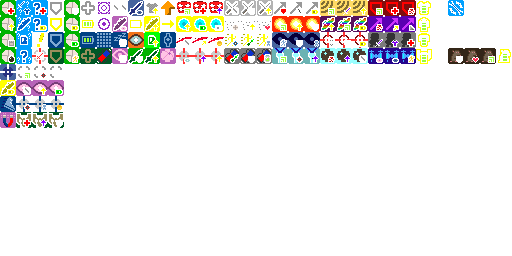
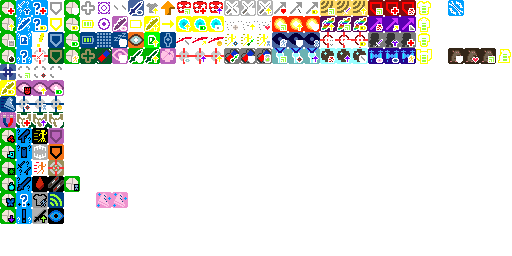
v0.0.2.4 Major bug fix/Mage new class: Oracle

Changed region(s): [[0.0, 0.5, 0.1562, 0.875], [0.1875, 0.75, 0.25, 0.8125], [0.0312, 0.3438, 0.0625, 0.375]]

diff --git a/core/src/main/java/com/shatteredpixel/shatteredpixeldungeon/actors/mobs/Mob.java b/core/src/main/java/com/shatteredpixel/shatteredpixeldungeon/actors/mobs/Mob.java
@@ -21,6 +21,8 @@
 
 package com.shatteredpixel.shatteredpixeldungeon.actors.mobs;
 
+import static com.shatteredpixel.shatteredpixeldungeon.Dungeon.hero;
+
 import com.shatteredpixel.shatteredpixeldungeon.Assets;
 import com.shatteredpixel.shatteredpixeldungeon.Badges;
 import com.shatteredpixel.shatteredpixeldungeon.Challenges;
@@ -53,7 +55,6 @@ import com.shatteredpixel.shatteredpixeldungeon.effects.Surprise;
 import com.shatteredpixel.shatteredpixeldungeon.effects.Wound;
 import com.shatteredpixel.shatteredpixeldungeon.effects.particles.ShadowParticle;
 import com.shatteredpixel.shatteredpixeldungeon.items.Generator;
-import com.shatteredpixel.shatteredpixeldungeon.items.Gold;
 import com.shatteredpixel.shatteredpixeldungeon.items.Item;
 import com.shatteredpixel.shatteredpixeldungeon.items.artifacts.MasterThievesArmband;
 import com.shatteredpixel.shatteredpixeldungeon.items.artifacts.TimekeepersHourglass;
@@ -62,6 +63,7 @@ import com.shatteredpixel.shatteredpixeldungeon.items.rings.RingOfWealth;
 import com.shatteredpixel.shatteredpixeldungeon.items.stones.StoneOfAggression;
 import com.shatteredpixel.shatteredpixeldungeon.items.weapon.SpiritBow;
 import com.shatteredpixel.shatteredpixeldungeon.items.weapon.enchantments.Lucky;
+import com.shatteredpixel.shatteredpixeldungeon.items.weapon.melee.MagesStaff;
 import com.shatteredpixel.shatteredpixeldungeon.items.weapon.missiles.MissileWeapon;
 import com.shatteredpixel.shatteredpixeldungeon.items.weapon.missiles.darts.Dart;
 import com.shatteredpixel.shatteredpixeldungeon.levels.Level;
@@ -688,6 +690,10 @@ public abstract class Mob extends Char {
 		if (state != HUNTING && !(src instanceof Corruption)) {
 			alerted = true;
 		}
+		if (Dungeon.hero.hasTalent(Talent.ENTROPHY_INJECTION) && buff(Talent.EntrophyMark.class) != null && Random.Int(15) < Dungeon.hero.pointsInTalent(Talent.ENTROPHY_INJECTION)) {
+			dmg = (int) (((float) dmg) * (1f + 0.15f * hero.pointsInTalent(Talent.ENTROPHY_INJECTION)));
+			this.sprite.showStatus(CharSprite.NEGATIVE, Messages.get(Talent.EntrophyMark.class, "cri", new Object[0]), new Object[0]);
+		}
 		
 		super.damage( dmg, src );
 	}
@@ -725,6 +731,7 @@ public abstract class Mob extends Char {
 	
 	@Override
 	public void die( Object cause ) {
+		MagesStaff magesStaff;
 
 		if (cause == Chasm.class){
 			//50% chance to round up, 50% to round down
@@ -747,6 +754,10 @@ public abstract class Mob extends Char {
 		}
 
 		boolean soulMarked = buff(SoulMark.class) != null;
+
+		if (Dungeon.hero.hasTalent(Talent.TIME_CONSUME) && (magesStaff = (MagesStaff) Dungeon.hero.belongings.getItem(MagesStaff.class)) != null) {
+			magesStaff.gainCharge(((float) Dungeon.hero.pointsInTalent(Talent.TIME_CONSUME)) * 0.06f);
+		}
 
 		super.die( cause );
 

diff --git a/core/src/main/java/com/shatteredpixel/shatteredpixeldungeon/items/wands/WandOfBlastWave.java b/core/src/main/java/com/shatteredpixel/shatteredpixeldungeon/items/wands/WandOfBlastWave.java
@@ -27,8 +27,6 @@ import com.shatteredpixel.shatteredpixeldungeon.Dungeon;
 import com.shatteredpixel.shatteredpixeldungeon.actors.Actor;
 import com.shatteredpixel.shatteredpixeldungeon.actors.Char;
 import com.shatteredpixel.shatteredpixeldungeon.actors.buffs.Paralysis;
-import com.shatteredpixel.shatteredpixeldungeon.actors.hero.Hero;
-import com.shatteredpixel.shatteredpixeldungeon.actors.hero.Talent;
 import com.shatteredpixel.shatteredpixeldungeon.effects.Effects;
 import com.shatteredpixel.shatteredpixeldungeon.effects.MagicMissile;
 import com.shatteredpixel.shatteredpixeldungeon.effects.Pushing;
@@ -84,6 +82,7 @@ public class WandOfBlastWave extends DamageWand {
 			Char ch = Actor.findChar(bolt.collisionPos + i);
 
 			if (ch != null){
+				processEntrophy(ch, chargesPerCast());
 				wandProc(ch, chargesPerCast());
 				if (ch.alignment != Char.Alignment.ALLY) ch.damage(damageRoll(), this);
 
@@ -93,6 +92,14 @@ public class WandOfBlastWave extends DamageWand {
 					throwChar(ch, trajectory, strength, false, true, getClass());
 				}
 
+			}
+		}
+		Char findChar2 = Actor.findChar(bolt.collisionPos.intValue());
+		if (findChar2 != null) {
+			processEntrophy(findChar2, chargesPerCast());
+			findChar2.damage(damageRoll(), this);
+			if (findChar2.isAlive() && bolt.path.size() > bolt.dist.intValue() + 1 && findChar2.pos == bolt.collisionPos.intValue()) {
+				throwChar(findChar2, new Ballistica(findChar2.pos, bolt.path.get(bolt.dist.intValue() + 1).intValue(), 6), buffedLvl() + 3, false);
 			}
 		}
 
@@ -109,6 +116,14 @@ public class WandOfBlastWave extends DamageWand {
 			}
 		}
 		
+	}
+
+	public static void throwChar(Char charR, Ballistica ballistica, int i) {
+		throwChar(charR, ballistica, i, true);
+	}
+
+	public static void throwChar(Char charR, Ballistica ballistica, int i, boolean z) {
+		throwChar(charR, ballistica, i, true);
 	}
 
 	public static void throwChar(final Char ch, final Ballistica trajectory, int power,

diff --git a/core/src/main/java/com/shatteredpixel/shatteredpixeldungeon/actors/hero/Talent.java b/core/src/main/java/com/shatteredpixel/shatteredpixeldungeon/actors/hero/Talent.java
@@ -106,6 +106,8 @@ public enum Talent {
 	EMPOWERED_STRIKE(43, 3), MYSTICAL_CHARGE(44, 3), EXCESS_CHARGE(45, 3),
 	//Warlock T3
 	SOUL_EATER(46, 3), SOUL_SIPHON(47, 3), NECROMANCERS_MINIONS(48, 3),
+	//Oracle T3
+	SELF_PROPHECY(161, 3), ENTROPHY_INJECTION(162, 3), TIME_CONSUME(163, 3),
 	//Elemental Blast T4
 	BLAST_RADIUS(49, 4), ELEMENTAL_POWER(50, 4), REACTIVE_BARRIER(51, 4),
 	//Wild Magic T4
@@ -213,6 +215,31 @@ public enum Talent {
 		public float iconFadePercent() { return Math.max(0, visualcooldown() / 20); }
 	};
 	public static class SpiritBladesTracker extends FlavourBuff{};
+	public static class ProphecyCoolDown extends FlavourBuff{
+		public int icon() { return BuffIndicator.TIME; }
+		public void tintIcon(Image icon) { icon.hardlight(1f, 2f, 0.25f); }
+		public float iconFadePercent() { return Math.max(0, visualcooldown() / 15); }
+		public String toString() { return Messages.get(this, "name"); }
+		public String desc() { return Messages.get(this, "desc", dispTurns(visualcooldown())); }
+	};
+	public static class EntrophyMark extends FlavourBuff {
+		public int icon() {
+			return BuffIndicator.CORRUPT;
+		}
+
+		public EntrophyMark() {
+			this.type = Buff.buffType.NEGATIVE;
+			this.announced = true;
+		}
+
+		public String toString() {
+			return Messages.get((Object) this, "name", new Object[0]);
+		}
+
+		public String desc() {
+			return Messages.get((Object) this, "desc", dispTurns());
+		}
+	}
 
 	int icon;
 	int maxPoints;
@@ -654,6 +681,9 @@ public enum Talent {
 				break;
 			case WARLOCK:
 				Collections.addAll(tierTalents, SOUL_EATER, SOUL_SIPHON, NECROMANCERS_MINIONS);
+				break;
+			case ORACLE:
+				Collections.addAll(tierTalents, SELF_PROPHECY, ENTROPHY_INJECTION, TIME_CONSUME);
 				break;
 			case ASSASSIN:
 				Collections.addAll(tierTalents, ENHANCED_LETHALITY, ASSASSINS_REACH, BOUNTY_HUNTER);

diff --git a/core/src/main/java/com/shatteredpixel/shatteredpixeldungeon/items/wands/WandOfLivingEarth.java b/core/src/main/java/com/shatteredpixel/shatteredpixeldungeon/items/wands/WandOfLivingEarth.java
@@ -29,7 +29,6 @@ import com.shatteredpixel.shatteredpixeldungeon.actors.Char;
 import com.shatteredpixel.shatteredpixeldungeon.actors.buffs.AllyBuff;
 import com.shatteredpixel.shatteredpixeldungeon.actors.buffs.Amok;
 import com.shatteredpixel.shatteredpixeldungeon.actors.buffs.Buff;
-import com.shatteredpixel.shatteredpixeldungeon.actors.buffs.Corruption;
 import com.shatteredpixel.shatteredpixeldungeon.actors.hero.Hero;
 import com.shatteredpixel.shatteredpixeldungeon.actors.mobs.Mob;
 import com.shatteredpixel.shatteredpixeldungeon.actors.mobs.npcs.NPC;
@@ -96,6 +95,7 @@ public class WandOfLivingEarth extends DamageWand {
 			guardian.sprite.centerEmitter().burst(MagicMissile.EarthParticle.ATTRACT, 8 + buffedLvl() / 2);
 			guardian.setInfo(curUser, buffedLvl(), armorToAdd);
 			wandProc(guardian, chargesPerCast());
+			processEntrophy(guardian, chargesPerCast());
 			Sample.INSTANCE.play( Assets.Sounds.HIT_MAGIC, 1, 0.9f * Random.Float(0.87f, 1.15f) );
 
 		//shooting the guardian at a location
@@ -113,6 +113,7 @@ public class WandOfLivingEarth extends DamageWand {
 
 				wandProc(ch, chargesPerCast());
 				ch.damage(damage, this);
+				processEntrophy(ch, chargesPerCast());
 
 				int closest = -1;
 				boolean[] passable = Dungeon.level.passable;
@@ -156,6 +157,7 @@ public class WandOfLivingEarth extends DamageWand {
 				ch.sprite.centerEmitter().burst(MagicMissile.EarthParticle.BURST, 5 + buffedLvl() / 2);
 
 				wandProc(ch, chargesPerCast());
+				processEntrophy(ch, chargesPerCast());
 				ch.damage(damage, this);
 				Sample.INSTANCE.play( Assets.Sounds.HIT_MAGIC, 1, 0.8f * Random.Float(0.87f, 1.15f) );
 				

diff --git a/core/src/main/java/com/shatteredpixel/shatteredpixeldungeon/items/weapon/melee/MagesStaff.java b/core/src/main/java/com/shatteredpixel/shatteredpixeldungeon/items/weapon/melee/MagesStaff.java
@@ -21,11 +21,12 @@
 
 package com.shatteredpixel.shatteredpixeldungeon.items.weapon.melee;
 
+import static com.shatteredpixel.shatteredpixeldungeon.Dungeon.hero;
+
 import com.shatteredpixel.shatteredpixeldungeon.Assets;
 import com.shatteredpixel.shatteredpixeldungeon.Badges;
 import com.shatteredpixel.shatteredpixeldungeon.Dungeon;
 import com.shatteredpixel.shatteredpixeldungeon.actors.Char;
-import com.shatteredpixel.shatteredpixeldungeon.actors.buffs.Barrier;
 import com.shatteredpixel.shatteredpixeldungeon.actors.buffs.Buff;
 import com.shatteredpixel.shatteredpixeldungeon.actors.hero.Hero;
 import com.shatteredpixel.shatteredpixeldungeon.actors.hero.HeroSubClass;
@@ -90,8 +91,14 @@ public class MagesStaff extends MeleeWeapon {
 
 	@Override
 	public int max(int lvl) {
-		return  Math.round(3f*(tier+1)) +   //6 base damage, down from 10
-				lvl*(tier+1);               //scaling unaffected
+		if (hero.hasTalent(Talent.SELF_PROPHECY) && hero.buff(Talent.ProphecyCoolDown.class) == null) {
+			return  Math.round(3f*(tier+1)) +   //6 base damage, down from 10
+					lvl*(tier+1) +
+					15 * hero.pointsInTalent(Talent.SELF_PROPHECY);
+		} else {
+			return  Math.round(3f*(tier+1)) +   //6 base damage, down from 10
+					lvl*(tier+1);
+		}
 	}
 
 	public MagesStaff(Wand wand){

diff --git a/core/src/main/java/com/shatteredpixel/shatteredpixeldungeon/actors/Char.java b/core/src/main/java/com/shatteredpixel/shatteredpixeldungeon/actors/Char.java
@@ -107,6 +107,7 @@ import com.shatteredpixel.shatteredpixeldungeon.items.weapon.firearm.Karasawa;
 import com.shatteredpixel.shatteredpixeldungeon.items.weapon.firearm.Spark;
 import com.shatteredpixel.shatteredpixeldungeon.items.weapon.firearm.Supernova;
 import com.shatteredpixel.shatteredpixeldungeon.items.weapon.firearm.Vega;
+import com.shatteredpixel.shatteredpixeldungeon.items.weapon.melee.MagesStaff;
 import com.shatteredpixel.shatteredpixeldungeon.items.weapon.melee.Murakumo;
 import com.shatteredpixel.shatteredpixeldungeon.items.weapon.melee.RipperWeapon;
 import com.shatteredpixel.shatteredpixeldungeon.items.weapon.melee.WarpBlade;
@@ -361,6 +362,13 @@ public abstract class Char extends Actor {
 					h.belongings.weapon instanceof Supernova.Bullet) {
 					dr = 0;
 				}
+			}
+
+			if (this instanceof Hero
+					&& hero.hasTalent(Talent.SELF_PROPHECY)
+					&& hero.buff(Talent.ProphecyCoolDown.class) == null
+					&& (hero.belongings.weapon() instanceof MagesStaff)) {
+				Buff.affect(hero, Talent.ProphecyCoolDown.class, 10f);
 			}
 
 			//we use a float here briefly so that we don't have to constantly round while

diff --git a/core/src/main/java/com/shatteredpixel/shatteredpixeldungeon/items/weapon/firearm/FirearmWeapon.java b/core/src/main/java/com/shatteredpixel/shatteredpixeldungeon/items/weapon/firearm/FirearmWeapon.java
@@ -667,11 +667,15 @@ public class FirearmWeapon extends MeleeWeapon {
                     break;
             }
 
-            if (Dungeon.hero.hasTalent(Talent.SUPPRESSION_FIRE) && Random.Int(10) < Dungeon.hero.pointsInTalent(Talent.SUPPRESSION_FIRE) && !Dungeon.level.flamable[cell]) {
+            if (Dungeon.hero.hasTalent(Talent.SUPPRESSION_FIRE) &&
+                Random.Int(10) < Dungeon.hero.pointsInTalent(Talent.SUPPRESSION_FIRE) &&
+                !Dungeon.level.flamable[cell] && findChar != null) {
                 Buff.affect(findChar, Roots.class, 1f);
             }
 
-            if (Dungeon.hero.hasTalent(Talent.URBAN_WARFARE) && Random.Int(5) < Dungeon.hero.pointsInTalent(Talent.URBAN_WARFARE) && !Dungeon.level.flamable[cell]) {
+            if (Dungeon.hero.hasTalent(Talent.URBAN_WARFARE) &&
+                Random.Int(5) < Dungeon.hero.pointsInTalent(Talent.URBAN_WARFARE) &&
+                !Dungeon.level.flamable[cell] && findChar != null) {
                 Buff.affect(findChar, Blindness.class, 1f);
                 Buff.affect(findChar, Cripple.class, 1f);
             }

diff --git a/core/src/main/java/com/shatteredpixel/shatteredpixeldungeon/items/wands/WandOfWarding.java b/core/src/main/java/com/shatteredpixel/shatteredpixeldungeon/items/wands/WandOfWarding.java
@@ -28,7 +28,6 @@ import com.shatteredpixel.shatteredpixeldungeon.actors.Actor;
 import com.shatteredpixel.shatteredpixeldungeon.actors.Char;
 import com.shatteredpixel.shatteredpixeldungeon.actors.buffs.AllyBuff;
 import com.shatteredpixel.shatteredpixeldungeon.actors.buffs.Buff;
-import com.shatteredpixel.shatteredpixeldungeon.actors.buffs.Corruption;
 import com.shatteredpixel.shatteredpixeldungeon.actors.buffs.Dread;
 import com.shatteredpixel.shatteredpixeldungeon.actors.buffs.Sleep;
 import com.shatteredpixel.shatteredpixeldungeon.actors.buffs.Terror;
@@ -332,6 +331,7 @@ public class WandOfWarding extends Wand {
 			int dmg = Random.NormalIntRange( 2 + wandLevel, 8 + 4*wandLevel );
 			enemy.damage( dmg, this );
 			if (enemy.isAlive()){
+				Wand.processEntrophy(this.enemy, this.wandLevel, 1);
 				Wand.wandProc(enemy, wandLevel, 1);
 			}
 

diff --git a/core/src/main/java/com/shatteredpixel/shatteredpixeldungeon/items/wands/WandOfRegrowth.java b/core/src/main/java/com/shatteredpixel/shatteredpixeldungeon/items/wands/WandOfRegrowth.java
@@ -29,7 +29,6 @@ import com.shatteredpixel.shatteredpixeldungeon.actors.Char;
 import com.shatteredpixel.shatteredpixeldungeon.actors.buffs.AllyBuff;
 import com.shatteredpixel.shatteredpixeldungeon.actors.buffs.Amok;
 import com.shatteredpixel.shatteredpixeldungeon.actors.buffs.Buff;
-import com.shatteredpixel.shatteredpixeldungeon.actors.buffs.Corruption;
 import com.shatteredpixel.shatteredpixeldungeon.actors.buffs.Doom;
 import com.shatteredpixel.shatteredpixeldungeon.actors.buffs.Dread;
 import com.shatteredpixel.shatteredpixeldungeon.actors.buffs.Paralysis;
@@ -126,6 +125,7 @@ public class WandOfRegrowth extends Wand {
 						Statistics.qualifiedForBossChallengeBadge = false;
 					}
 					wandProc(ch, chargesPerCast());
+					processEntrophy(ch, chargesPerCast());
 					Buff.prolong( ch, Roots.class, 4f * chrgUsed );
 				}
 			}

diff --git a/core/src/main/java/com/shatteredpixel/shatteredpixeldungeon/items/wands/Wand.java b/core/src/main/java/com/shatteredpixel/shatteredpixeldungeon/items/wands/Wand.java
@@ -206,6 +206,21 @@ public abstract class Wand extends Item {
 		}
 	}
 
+	/* access modifiers changed from: protected */
+	public void processEntrophy(Char charR, int i) {
+		processEntrophy(charR, buffedLvl(), i);
+		if (Dungeon.hero.hasTalent(Talent.ENTROPHY_INJECTION)) {
+			Buff.affect(charR, Talent.EntrophyMark.class, 2.0f);
+		}
+	}
+
+	/* access modifiers changed from: protected */
+	public static void processEntrophy(Char charR, int i, int i2) {
+		if (Dungeon.hero.hasTalent(Talent.ARCANE_VISION)) {
+			((TalismanOfForesight.CharAwareness) Buff.append(Dungeon.hero, TalismanOfForesight.CharAwareness.class, (float) (Dungeon.hero.pointsInTalent(Talent.ARCANE_VISION) * 5))).charID = charR.id();
+		}
+	}
+
 	@Override
 	public void onDetach( ) {
 		stopCharging();

diff --git a/core/src/main/java/com/shatteredpixel/shatteredpixeldungeon/actors/hero/HeroClass.java b/core/src/main/java/com/shatteredpixel/shatteredpixeldungeon/actors/hero/HeroClass.java
@@ -83,7 +83,7 @@ import com.watabou.utils.DeviceCompat;
 public enum HeroClass {
 
 	WARRIOR( HeroSubClass.BERSERKER, HeroSubClass.GLADIATOR, HeroSubClass.SPECOPS ),
-	MAGE( HeroSubClass.BATTLEMAGE, HeroSubClass.WARLOCK ),
+	MAGE( HeroSubClass.BATTLEMAGE, HeroSubClass.WARLOCK, HeroSubClass.ORACLE ),
 	ROGUE( HeroSubClass.ASSASSIN, HeroSubClass.FREERUNNER ),
 	HUNTRESS( HeroSubClass.SNIPER, HeroSubClass.WARDEN );
 

diff --git a/core/src/main/java/com/shatteredpixel/shatteredpixeldungeon/ui/HeroIcon.java b/core/src/main/java/com/shatteredpixel/shatteredpixeldungeon/ui/HeroIcon.java
@@ -42,6 +42,7 @@ public class HeroIcon extends Image {
 	public static final int SPECOPS 	= 21;
 	public static final int BATTLEMAGE  = 2;
 	public static final int WARLOCK     = 3;
+	public static final int ORACLE      = 22;
 	public static final int ASSASSIN    = 4;
 	public static final int FREERUNNER  = 5;
 	public static final int SNIPER      = 6;
